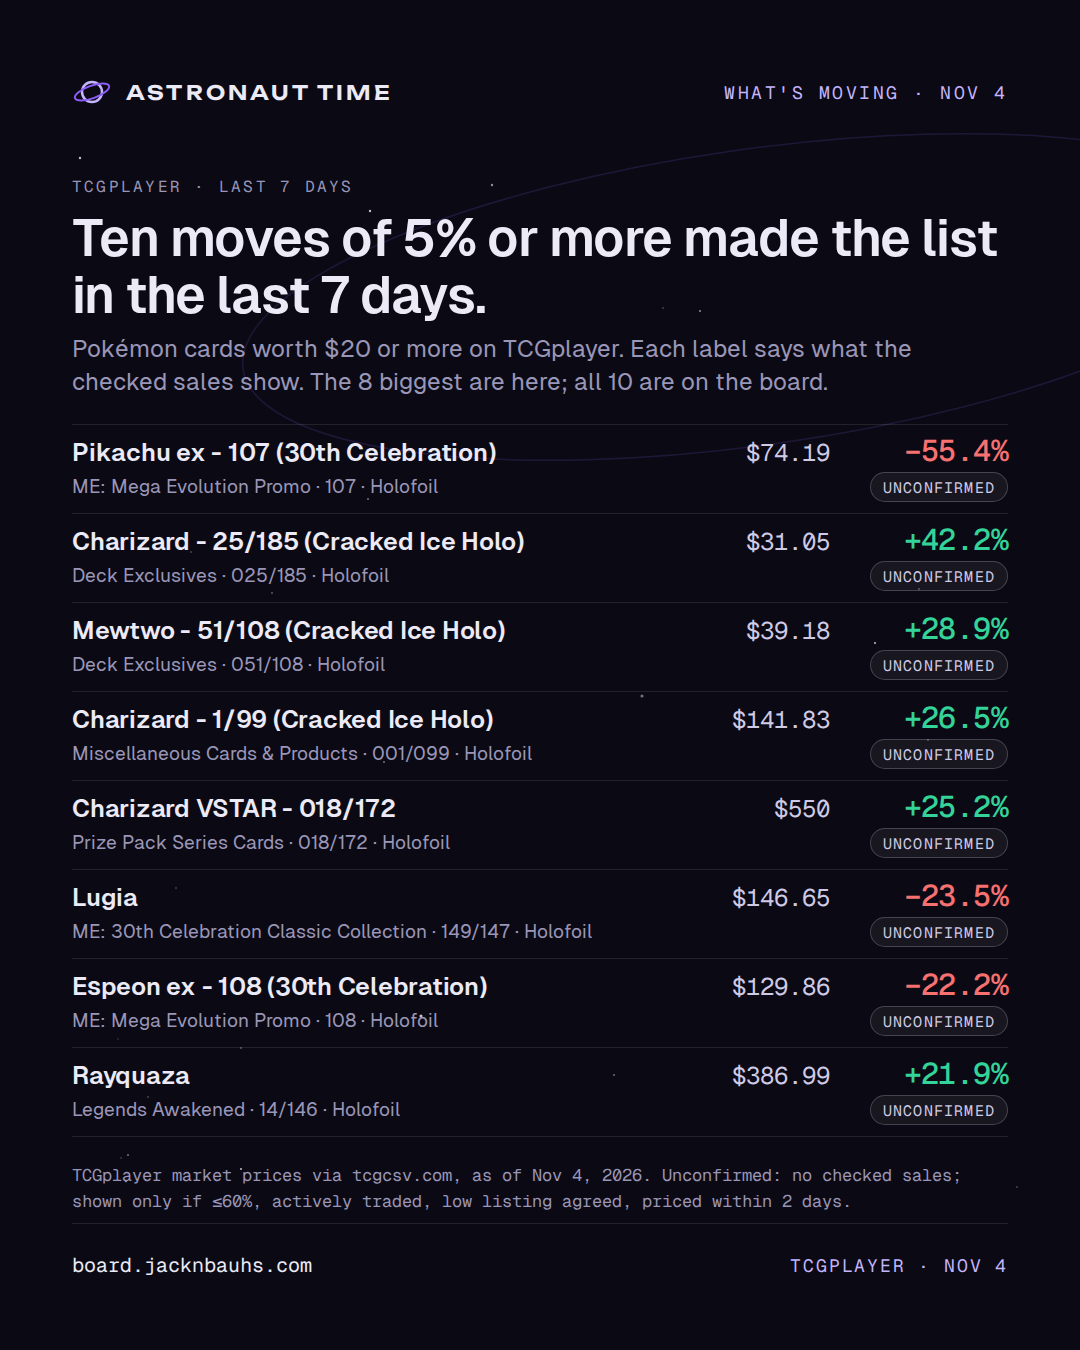
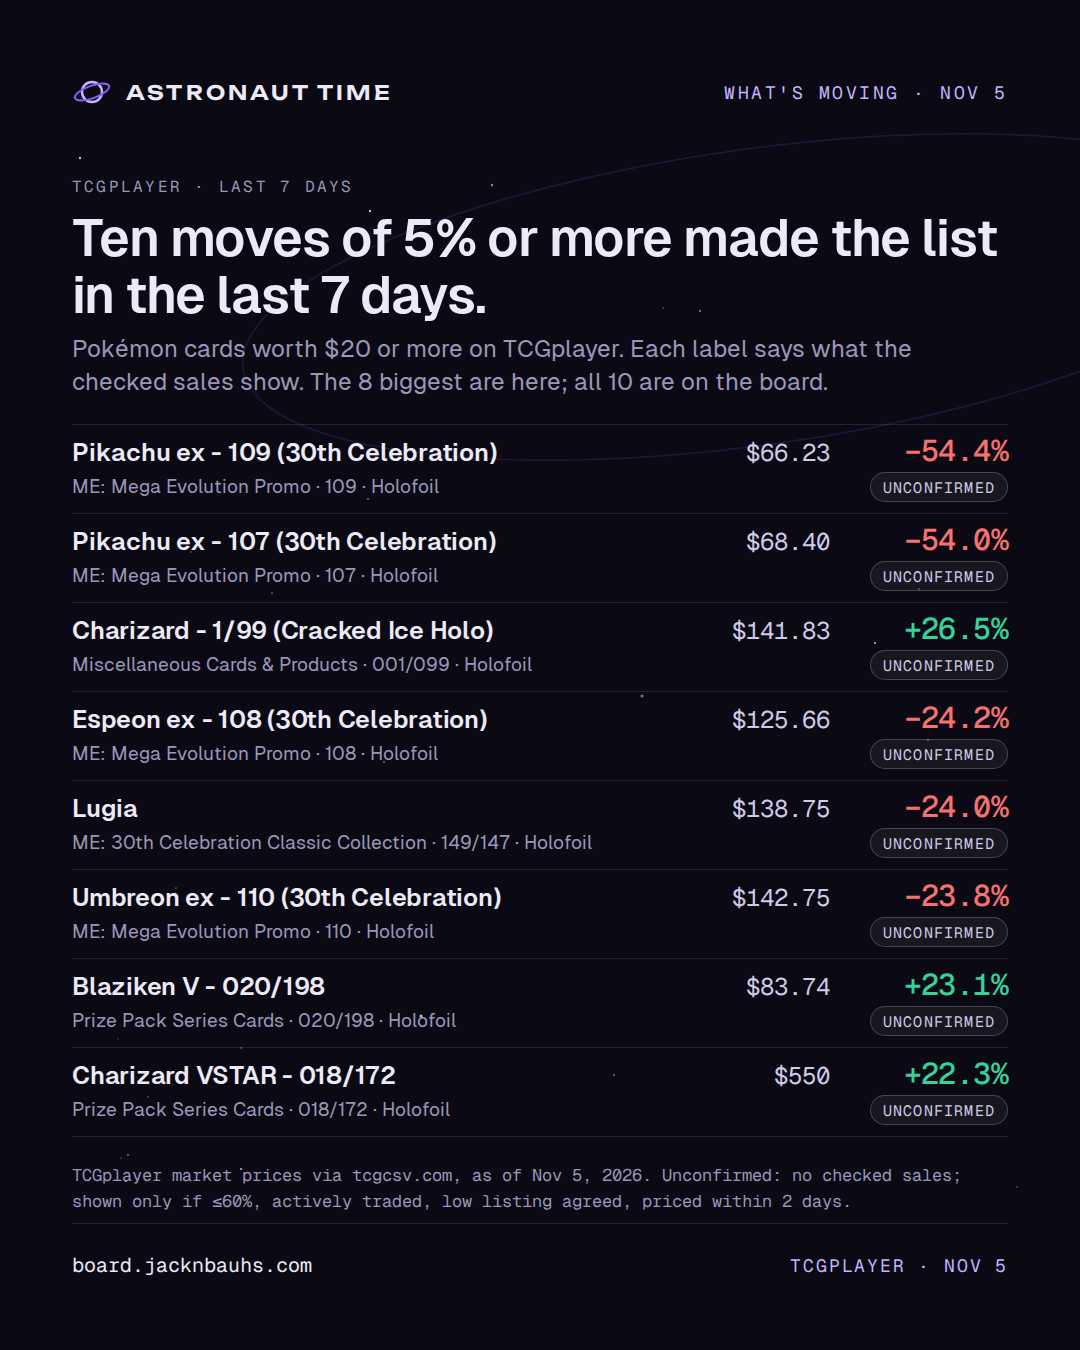
Share kit: render 2026-11-06

diff --git a/card.html b/card.html
@@ -10,14 +10,14 @@
 <meta property="og:url" content="https://board.jacknbauhs.com/card.html">
 <meta property="og:type" content="website">
 <meta property="og:site_name" content="Astronaut Time">
-<meta property="og:image" content="https://board.jacknbauhs.com/assets/og.png?v=2026-11-05">
+<meta property="og:image" content="https://board.jacknbauhs.com/assets/og.png?v=2026-11-06">
 <meta property="og:image:width" content="1200">
 <meta property="og:image:height" content="630">
 <meta property="og:image:alt" content="Mission Control by Astronaut Time: the card market, with the fake sales taken out.">
 <meta name="twitter:card" content="summary_large_image">
 <meta name="twitter:title" content="Card · Mission Control · Astronaut Time">
 <meta name="twitter:description" content="The card market, with the fake sales taken out.">
-<meta name="twitter:image" content="https://board.jacknbauhs.com/assets/og.png?v=2026-11-05">
+<meta name="twitter:image" content="https://board.jacknbauhs.com/assets/og.png?v=2026-11-06">
 <meta name="theme-color" content="#0B0A14">
 <link rel="icon" href="assets/favicon.svg" type="image/svg+xml">
 <link rel="preconnect" href="https://fonts.googleapis.com">

diff --git a/404.html b/404.html
@@ -10,14 +10,14 @@
 <meta property="og:url" content="https://board.jacknbauhs.com/">
 <meta property="og:type" content="website">
 <meta property="og:site_name" content="Astronaut Time">
-<meta property="og:image" content="https://board.jacknbauhs.com/assets/og.png?v=2026-11-05">
+<meta property="og:image" content="https://board.jacknbauhs.com/assets/og.png?v=2026-11-06">
 <meta property="og:image:width" content="1200">
 <meta property="og:image:height" content="630">
 <meta property="og:image:alt" content="Mission Control by Astronaut Time: the card market, with the fake sales taken out.">
 <meta name="twitter:card" content="summary_large_image">
 <meta name="twitter:title" content="Mission Control · Astronaut Time">
 <meta name="twitter:description" content="The card market, with the fake sales taken out.">
-<meta name="twitter:image" content="https://board.jacknbauhs.com/assets/og.png?v=2026-11-05">
+<meta name="twitter:image" content="https://board.jacknbauhs.com/assets/og.png?v=2026-11-06">
 <meta name="theme-color" content="#0B0A14">
 <link rel="icon" href="/assets/favicon.svg" type="image/svg+xml">
 <link rel="preconnect" href="https://fonts.googleapis.com">

diff --git a/index.html b/index.html
@@ -10,14 +10,14 @@
 <meta property="og:url" content="https://board.jacknbauhs.com/">
 <meta property="og:type" content="website">
 <meta property="og:site_name" content="Astronaut Time">
-<meta property="og:image" content="https://board.jacknbauhs.com/assets/og.png?v=2026-11-05">
+<meta property="og:image" content="https://board.jacknbauhs.com/assets/og.png?v=2026-11-06">
 <meta property="og:image:width" content="1200">
 <meta property="og:image:height" content="630">
 <meta property="og:image:alt" content="Mission Control by Astronaut Time: the card market, with the fake sales taken out.">
 <meta name="twitter:card" content="summary_large_image">
 <meta name="twitter:title" content="Mission Control · Astronaut Time">
 <meta name="twitter:description" content="The card market, with the fake sales taken out.">
-<meta name="twitter:image" content="https://board.jacknbauhs.com/assets/og.png?v=2026-11-05">
+<meta name="twitter:image" content="https://board.jacknbauhs.com/assets/og.png?v=2026-11-06">
 <meta name="theme-color" content="#0B0A14">
 <link rel="icon" href="assets/favicon.svg" type="image/svg+xml">
 <link rel="preconnect" href="https://fonts.googleapis.com">

diff --git a/share/out/captions.md b/share/out/captions.md
@@ -1,22 +1,22 @@
-# Captions, board data of 2026-11-05
+# Captions, board data of 2026-11-06
 
 One block per image. Caption first, alt text second. Plain facts, the source and the board link; nothing here is a buy.
 
 ## Before you post
 
-- ✅ Prices are from Nov 4, 2026.
+- ✅ Prices are from Nov 5, 2026.
 - ⚠ All 10 on the 7-day list are unconfirmed: no checked sale behind any. Keep "unconfirmed" in the post and call them price moves, not sales.
 - ⚠ All 10 on the since-yesterday list are unconfirmed: no checked sale behind any. Keep "unconfirmed" in the post and call them price moves, not sales.
 
-## file-2026-11-05-cover.png
+## file-2026-11-06-cover.png
 
-The File, Nov 5: The 5 biggest moves on the board's 7-day list, prices Oct 28 to Nov 4. TCGplayer's market price for Pikachu ex - 107 (30th Celebration) fell 55.4% to $74.19 and Charizard - 25/185 (Cracked Ice Holo) rose 42.2% to $31.05 between Oct 28 and Nov 4. None of the 5 has a checked sale behind the move: unconfirmed means Mission Control checked no sale in the window, not that anything is wrong. Pikachu ex - 107 (30th Celebration) (ME: Mega Evolution Promo): TCGplayer market price $74.19 on Nov 4, −55.4% in 7 days, unconfirmed. Charizard - 25/185 (Cracked Ice Holo) (Deck Exclusives): TCGplayer market price $31.05 on Nov 4, +42.2% in 7 days, unconfirmed. Mewtwo - 51/108 (Cracked Ice Holo) (Deck Exclusives): TCGplayer market price $39.18 on Nov 4, +28.9% in 7 days, unconfirmed. Charizard - 1/99 (Cracked Ice Holo) (Miscellaneous Cards & Products): TCGplayer market price $141.83 on Nov 3, +26.5% in 7 days, unconfirmed. Charizard VSTAR - 018/172 (Prize Pack Series Cards): TCGplayer market price $550 on Nov 4, +25.2% in 7 days, unconfirmed. 5 of 5 moves on this File with no checked sale, or with checked sales that were flagged. Why now: Mission Control writes this File every morning from the nightly TCGplayer pull, so the board has a fresh File on the mornings no hand-written one is up (Tue, Thu and Sat are its days). What could break it: A market price is TCGplayer's average of recent completed sales of the same card, condition and printing, so one sale can move a thin card. The list's rule keeps out the moves nothing backs, not every thin one. This is not a read on whether these prices are high or low. What we're watching: Whether these moves hold on tomorrow's pull. A card drops off the list by moving less than 5% in a week, more than 60% with no checked sale, without its lowest listing moving the same way, or below $20. The next hand-written File day is today. Unconfirmed: no checked sales speak to the move yet. Source: TCGplayer market prices via tcgcsv.com, the board's 7-day list (prices Oct 28 to Nov 4, 2026, published Nov 5). board.jacknbauhs.com
+The File, Nov 6: The 5 biggest moves on the board's 7-day list, prices Oct 29 to Nov 5. TCGplayer's market price for Pikachu ex - 109 (30th Celebration) fell 54.4% to $66.23 and Charizard - 1/99 (Cracked Ice Holo) rose 26.5% to $141.83 between Oct 29 and Nov 5. None of the 5 has a checked sale behind the move: unconfirmed means Mission Control checked no sale in the window, not that anything is wrong. Pikachu ex - 109 (30th Celebration) (ME: Mega Evolution Promo): TCGplayer market price $66.23 on Nov 5, −54.4% in 7 days, unconfirmed. Pikachu ex - 107 (30th Celebration) (ME: Mega Evolution Promo): TCGplayer market price $68.40 on Nov 5, −54.0% in 7 days, unconfirmed. Charizard - 1/99 (Cracked Ice Holo) (Miscellaneous Cards & Products): TCGplayer market price $141.83 on Nov 3, +26.5% in 7 days, unconfirmed. Espeon ex - 108 (30th Celebration) (ME: Mega Evolution Promo): TCGplayer market price $125.66 on Nov 5, −24.2% in 7 days, unconfirmed. Lugia (ME: 30th Celebration Classic Collection): TCGplayer market price $138.75 on Nov 5, −24.0% in 7 days, unconfirmed. 5 of 5 moves on this File with no checked sale, or with checked sales that were flagged. Why now: Mission Control writes this File every morning from the nightly TCGplayer pull, so the board has a fresh File on the mornings no hand-written one is up (Tue, Thu and Sat are its days). What could break it: A market price is TCGplayer's average of recent completed sales of the same card, condition and printing, so one sale can move a thin card. The list's rule keeps out the moves nothing backs, not every thin one. This is not a read on whether these prices are high or low. What we're watching: Whether these moves hold on tomorrow's pull. A card drops off the list by moving less than 5% in a week, more than 60% with no checked sale, without its lowest listing moving the same way, or below $20. The next hand-written File day is Saturday, Nov 7. Unconfirmed: no checked sales speak to the move yet. Source: TCGplayer market prices via tcgcsv.com, the board's 7-day list (prices Oct 29 to Nov 5, 2026, published Nov 6). board.jacknbauhs.com
 
-Alt: The File on the Astronaut Time board: The 5 biggest moves on the board's 7-day list, prices Oct 28 to Nov 4. The biggest moves on the board's 7-day list, prices Oct 28 to Nov 4: −55.4%, in 7 days · Pikachu ex - 107 (30th Celebration). Five 7-day TCGplayer moves as bars, each with its change, price and label, and the flags tally, 5 of 5.
+Alt: The File on the Astronaut Time board: The 5 biggest moves on the board's 7-day list, prices Oct 29 to Nov 5. The biggest moves on the board's 7-day list, prices Oct 29 to Nov 5: −54.4%, in 7 days · Pikachu ex - 109 (30th Celebration). Five 7-day TCGplayer moves as bars, each with its change, price and label, and the flags tally, 5 of 5.
 
-## flags-2026-11-04-cover.png
+## flags-2026-11-05-cover.png
 
-5 of 5 moves on this File with no checked sale, or with checked sales that were flagged. Mission Control checked no sale behind 5 of the 5 moves on this File. With no checked sales, a move shows only if it's 60% or less over 7 days and TCGplayer's lowest listing moved the same way by at least a quarter as much. Pikachu ex - 107 (30th Celebration), Nov 4: $74.19, −55.4% in 7 days; no sales checked in this window. Charizard - 25/185 (Cracked Ice Holo), Nov 4: $31.05, +42.2% in 7 days; no sales checked in this window. Mewtwo - 51/108 (Cracked Ice Holo), Nov 4: $39.18, +28.9% in 7 days; no sales checked in this window. Charizard - 1/99 (Cracked Ice Holo), Nov 3: $141.83, +26.5% in 7 days; no sales checked in this window. Charizard VSTAR - 018/172, Nov 4: $550, +25.2% in 7 days; no sales checked in this window. Every one is on the board with its label. Prices are TCGplayer's market price after the move. Source: TCGplayer market prices via tcgcsv.com, the board's 7-day list (prices Oct 28 to Nov 4, 2026, published Nov 5). board.jacknbauhs.com
+5 of 5 moves on this File with no checked sale, or with checked sales that were flagged. Mission Control checked no sale behind 5 of the 5 moves on this File. With no checked sales, a move shows only if it's 60% or less over 7 days and TCGplayer's lowest listing moved the same way by at least a quarter as much. Pikachu ex - 109 (30th Celebration), Nov 5: $66.23, −54.4% in 7 days; no sales checked in this window. Pikachu ex - 107 (30th Celebration), Nov 5: $68.40, −54.0% in 7 days; no sales checked in this window. Charizard - 1/99 (Cracked Ice Holo), Nov 3: $141.83, +26.5% in 7 days; no sales checked in this window. Espeon ex - 108 (30th Celebration), Nov 5: $125.66, −24.2% in 7 days; no sales checked in this window. Lugia, Nov 5: $138.75, −24.0% in 7 days; no sales checked in this window. Every one is on the board with its label. Prices are TCGplayer's market price after the move. Source: TCGplayer market prices via tcgcsv.com, the board's 7-day list (prices Oct 29 to Nov 5, 2026, published Nov 6). board.jacknbauhs.com
 
 Alt: What we couldn't confirm: 5 of 5 moves on this File with no checked sale, or with checked sales that were flagged, all 5 listed one per line with the day, the card, the change and the TCGplayer market price after it.
 
@@ -46,6 +46,6 @@ Alt: Three calls on the record. Number 001: The 30th Celebration Booster Bundle'
 
 ## moving-2026-W45.png
 
-What's moving on TCGplayer, as of Nov 4, 2026. Ten moves of 5% or more made the list in the last 7 days. Pikachu ex - 107 (30th Celebration) (ME: Mega Evolution Promo · 107 · Holofoil): $74.19, −55.4%, unconfirmed. Charizard - 25/185 (Cracked Ice Holo) (Deck Exclusives · 025/185 · Holofoil): $31.05, +42.2%, unconfirmed. Mewtwo - 51/108 (Cracked Ice Holo) (Deck Exclusives · 051/108 · Holofoil): $39.18, +28.9%, unconfirmed. Charizard - 1/99 (Cracked Ice Holo) (Miscellaneous Cards & Products · 001/099 · Holofoil): $141.83, +26.5%, unconfirmed. Charizard VSTAR - 018/172 (Prize Pack Series Cards · 018/172 · Holofoil): $550, +25.2%, unconfirmed. Lugia (ME: 30th Celebration Classic Collection · 149/147 · Holofoil): $146.65, −23.5%, unconfirmed. Espeon ex - 108 (30th Celebration) (ME: Mega Evolution Promo · 108 · Holofoil): $129.86, −22.2%, unconfirmed. Rayquaza (Legends Awakened · 14/146 · Holofoil): $386.99, +21.9%, unconfirmed. Unconfirmed: no checked sales; shown only if ≤60%, actively traded, low listing agreed, priced within 2 days. Source: TCGplayer market prices via tcgcsv.com, as of Nov 4, 2026. board.jacknbauhs.com
+What's moving on TCGplayer, as of Nov 5, 2026. Ten moves of 5% or more made the list in the last 7 days. Pikachu ex - 109 (30th Celebration) (ME: Mega Evolution Promo · 109 · Holofoil): $66.23, −54.4%, unconfirmed. Pikachu ex - 107 (30th Celebration) (ME: Mega Evolution Promo · 107 · Holofoil): $68.40, −54.0%, unconfirmed. Charizard - 1/99 (Cracked Ice Holo) (Miscellaneous Cards & Products · 001/099 · Holofoil): $141.83, +26.5%, unconfirmed. Espeon ex - 108 (30th Celebration) (ME: Mega Evolution Promo · 108 · Holofoil): $125.66, −24.2%, unconfirmed. Lugia (ME: 30th Celebration Classic Collection · 149/147 · Holofoil): $138.75, −24.0%, unconfirmed. Umbreon ex - 110 (30th Celebration) (ME: Mega Evolution Promo · 110 · Holofoil): $142.75, −23.8%, unconfirmed. Blaziken V - 020/198 (Prize Pack Series Cards · 020/198 · Holofoil): $83.74, +23.1%, unconfirmed. Charizard VSTAR - 018/172 (Prize Pack Series Cards · 018/172 · Holofoil): $550, +22.3%, unconfirmed. Unconfirmed: no checked sales; shown only if ≤60%, actively traded, low listing agreed, priced within 2 days. Source: TCGplayer market prices via tcgcsv.com, as of Nov 5, 2026. board.jacknbauhs.com
 
 Alt: What's moving: the 8 biggest of the 10 TCGplayer moves on the list in the last 7 days, each with its market price, its change and the label for what checked sales show.

diff --git a/share/out/site/squarespace.md b/share/out/site/squarespace.md
@@ -2,7 +2,7 @@
 
 ## Four tiles (one Markdown block per column, or all four in one block)
 
-[![The File: The 5 biggest moves on the board's 7-day list, prices Oct 28 to Nov 4. −55.4%: The biggest moves on the board's 7-day list, prices Oct 28 to Nov 4, in 7 days · Pikachu ex - 107 (30th Celebration). No sale checked behind 5 of the 5. Not a read on whether these prices are high or low.](https://board.jacknbauhs.com/share/out/site/tile-file.png)](https://board.jacknbauhs.com)
+[![The File: The 5 biggest moves on the board's 7-day list, prices Oct 29 to Nov 5. −54.4%: The biggest moves on the board's 7-day list, prices Oct 29 to Nov 5, in 7 days · Pikachu ex - 109 (30th Celebration). No sale checked behind 5 of the 5. Not a read on whether these prices are high or low.](https://board.jacknbauhs.com/share/out/site/tile-file.png)](https://board.jacknbauhs.com)
 
 [![What we couldn't confirm: 5 of 5 moves on this File with no checked sale, or with checked sales that were flagged, each labeled with the reason.](https://board.jacknbauhs.com/share/out/site/tile-flags.png)](https://board.jacknbauhs.com)
 
